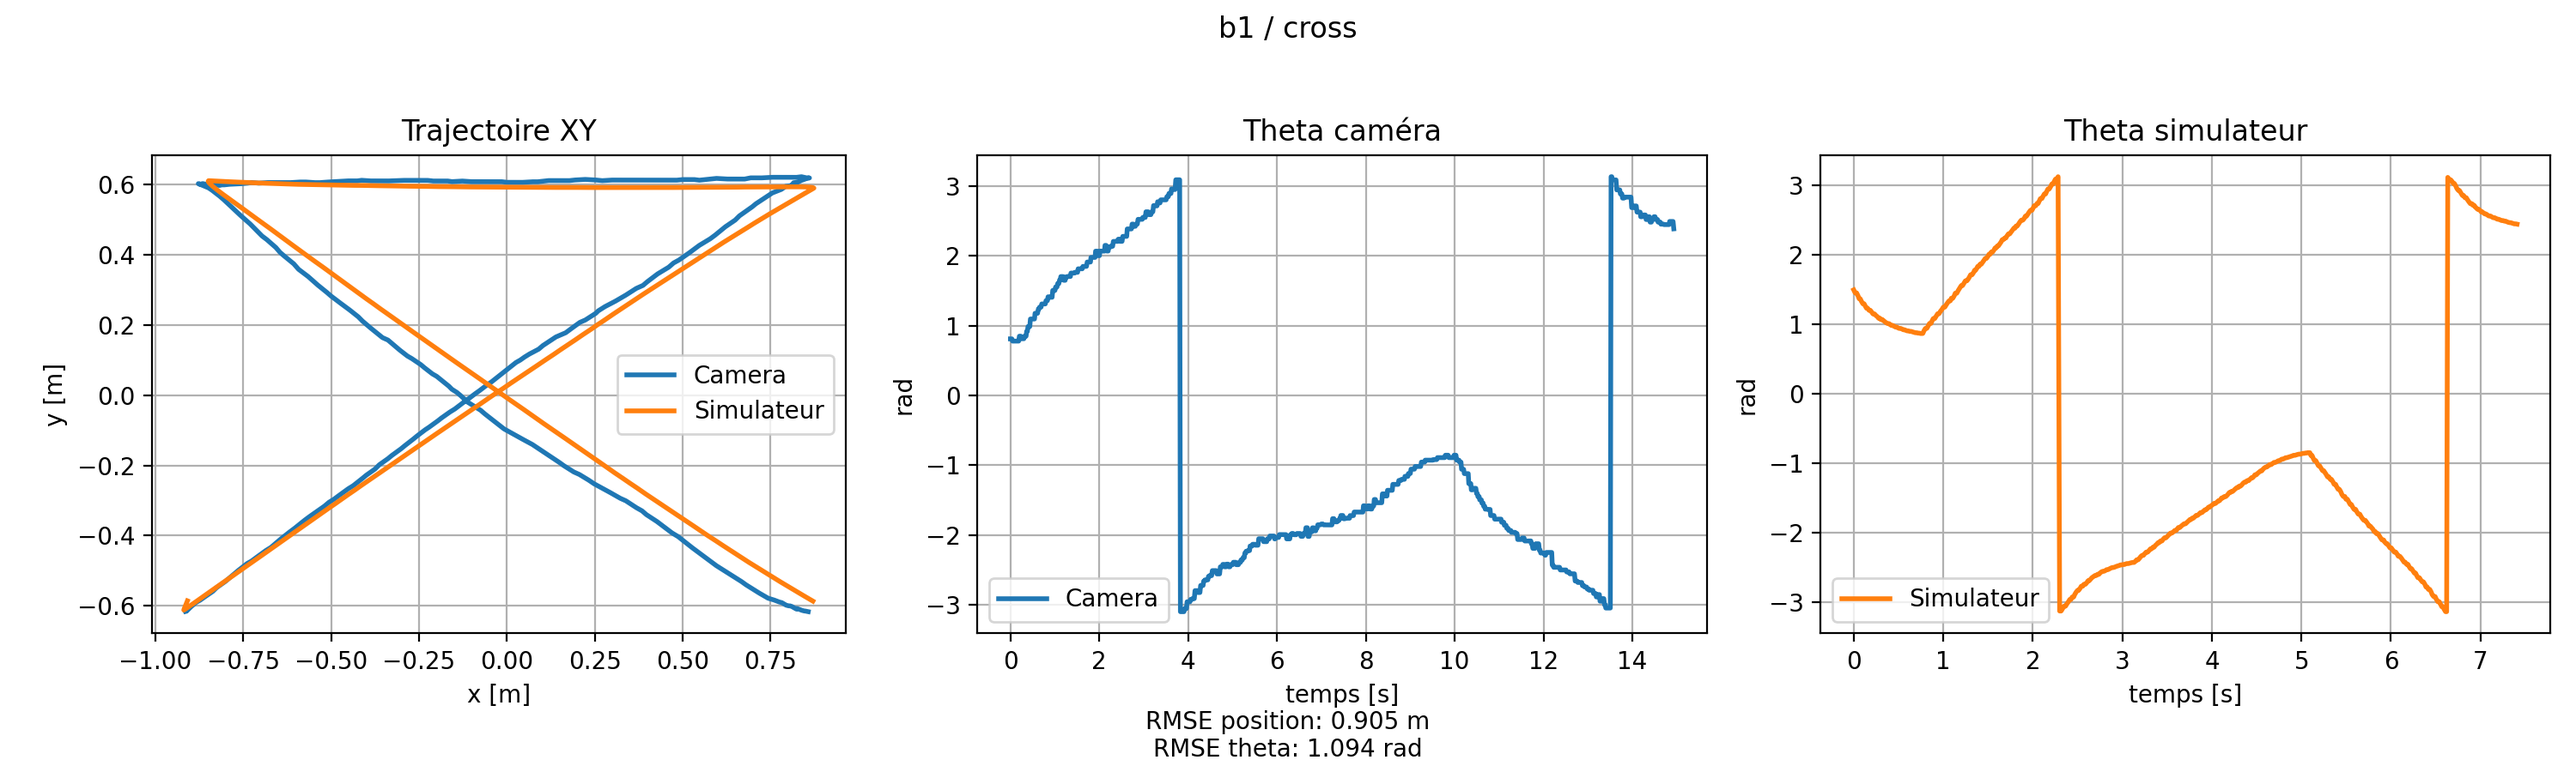
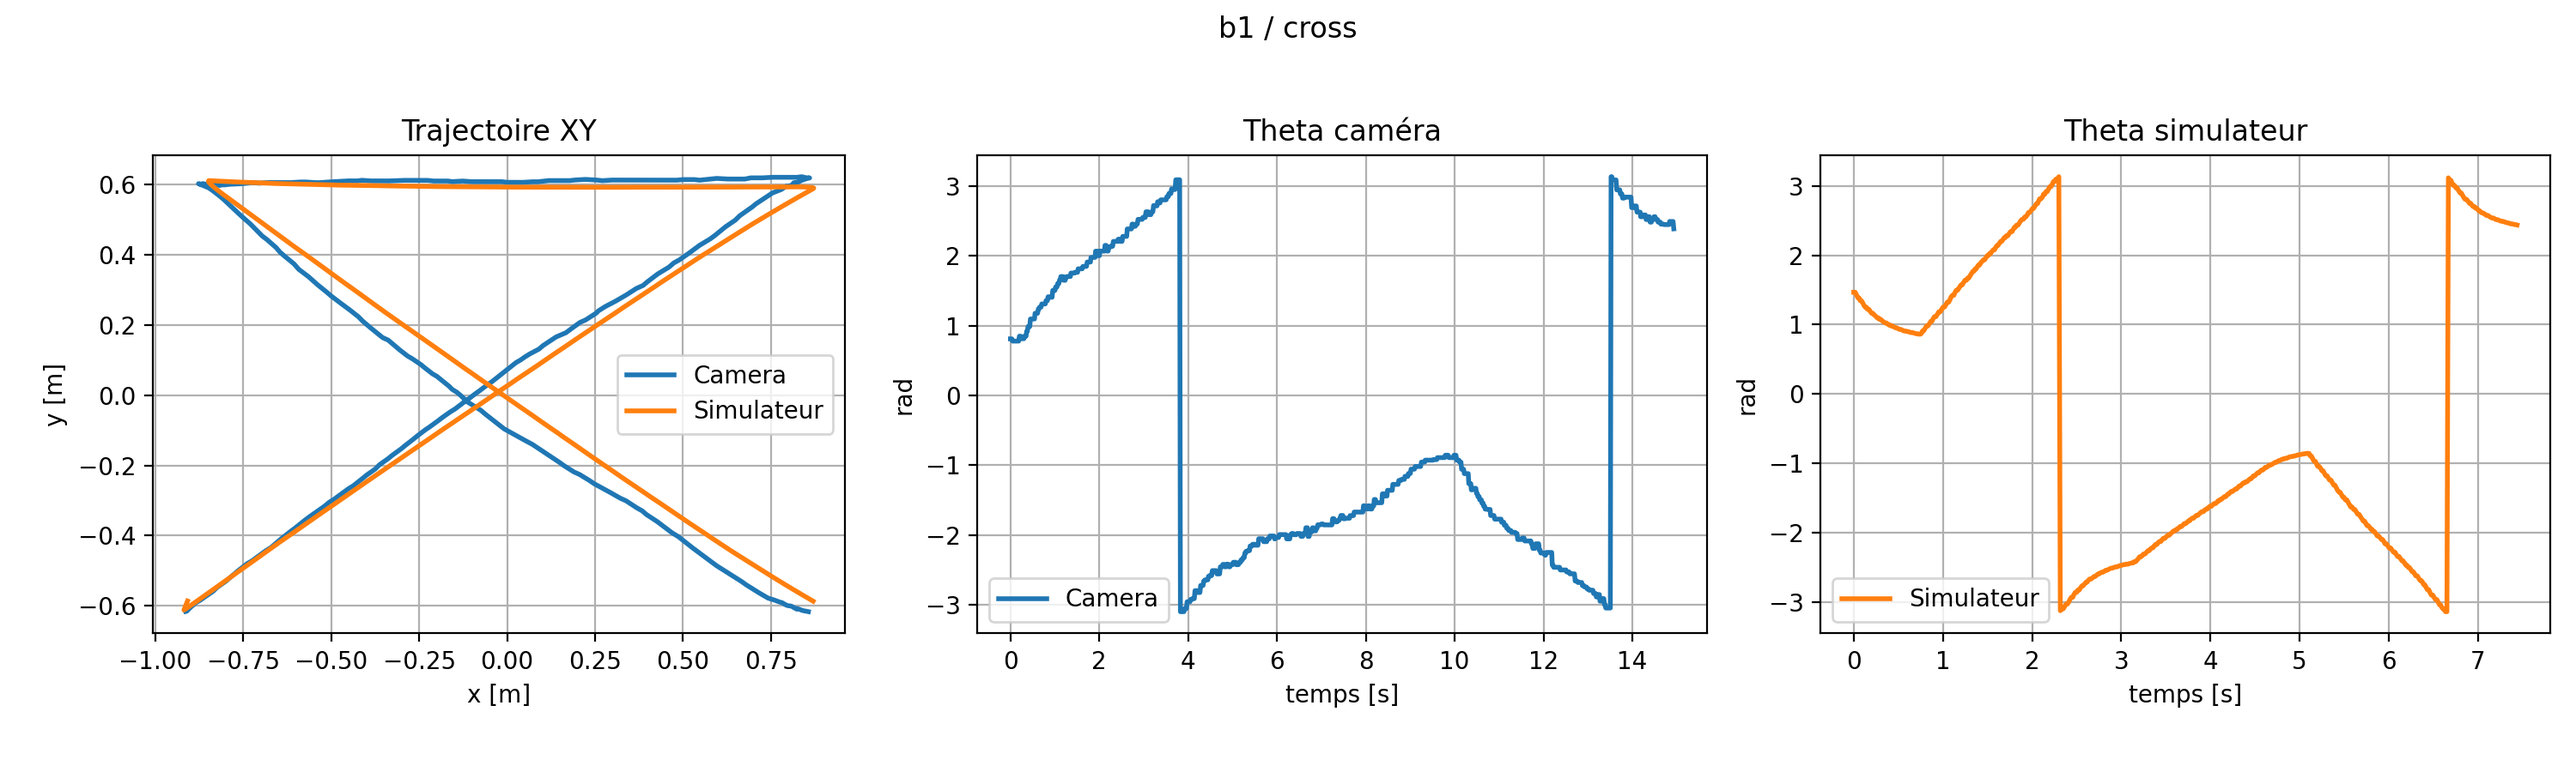
suppr des metriques sur les plot

diff --git a/rsk_neural_simulator/evaluate/evaluate_simulator.py b/rsk_neural_simulator/evaluate/evaluate_simulator.py
@@ -1,10 +1,8 @@
 """Replay un unique scénario RSK sur le simulateur et tracer XY + theta."""
 from __future__ import annotations
 
-import argparse
 import copy
 import json
-import math
 import time
 from dataclasses import dataclass
 from pathlib import Path
@@ -26,6 +24,7 @@ MIN_SLEEP = 1 / 120
 RESULTS_DIR = Path(__file__).resolve().parent / "results"
 DATA_DIR = Path(__file__).resolve().parents[1] / "data"
 DEFAULT_RAW_ROOT = (DATA_DIR / RAW_ROOT).resolve()
+SIM_HOST = "127.0.0.1"
 
 
 def angle_wrap(angle: float) -> float:
@@ -49,12 +48,6 @@ class Pose:
         if any(value is None for value in (x, y, theta)):
             return None
         return cls(float(x), float(y), float(theta))
-
-
-def pose_error(camera: Pose, simulator: Pose) -> Tuple[float, float]:
-    pos_err = math.dist((camera.x, camera.y), (simulator.x, simulator.y))
-    theta_err = abs(angle_wrap(camera.theta - simulator.theta))
-    return pos_err, theta_err
 
 
 def first_valid_pose(samples: Sequence[dict]) -> Optional[Pose]:
@@ -152,31 +145,11 @@ def replay_scenario(
     return records, path_name
 
 
-def compute_rmse(records: Sequence[Tuple[float, Optional[Pose], Optional[Pose]]]) -> Tuple[float, float]:
-    pos_errors: List[float] = []
-    theta_errors: List[float] = []
-    for _, cam_pose, sim_pose in records:
-        if cam_pose and sim_pose:
-            pos_err, theta_err = pose_error(cam_pose, sim_pose)
-            pos_errors.append(pos_err)
-            theta_errors.append(theta_err)
-
-    if not pos_errors:
-        return float("nan"), float("nan")
-
-    def rmse(values: List[float]) -> float:
-        return math.sqrt(sum(v * v for v in values) / len(values))
-
-    return rmse(pos_errors), rmse(theta_errors)
-
-
 def plot_results(
     records: Sequence[Tuple[float, Optional[Pose], Optional[Pose]]],
     robot_key: str,
     path_name: str,
     destination: Path,
-    pos_rmse: float,
-    theta_rmse: float,
 ) -> None:
     destination.parent.mkdir(parents=True, exist_ok=True)
     fig, (ax_xy, ax_theta_cam, ax_theta_sim) = plt.subplots(1, 3, figsize=(15, 4.5))
@@ -213,9 +186,7 @@ def plot_results(
     ax_theta_sim.grid(True)
     ax_theta_sim.legend()
 
-    text = f"RMSE position: {pos_rmse:.3f} m\nRMSE theta: {theta_rmse:.3f} rad"
     fig.suptitle(f"{robot_key} / {path_name}")
-    fig.text(0.5, 0.02, text, ha="center")
     fig.tight_layout(rect=(0, 0.05, 1, 0.95))
     fig.savefig(destination, dpi=200)
     plt.close(fig)
@@ -246,43 +217,23 @@ def run_paths_for_robot(
             continue
 
         records, path_name = replay_scenario(samples, robot_key, scenario_path, client)
-        pos_rmse, theta_rmse = compute_rmse(records)
         destination = output_dir / robot_key / f"{path_name}.png"
-        plot_results(records, robot_key, path_name, destination, pos_rmse, theta_rmse)
+        plot_results(records, robot_key, path_name, destination)
         print(f"[OK] {robot_key}/{path_name} → {destination}")
 
     park_robot(client, robot_key)
     print(f"=== Fin robot {robot_key} ===")
 
 
-def parse_args(argv: Optional[Sequence[str]] = None) -> argparse.Namespace:
-    parser = argparse.ArgumentParser(description=__doc__)
-    parser.add_argument("--host", default="127.0.0.1", help="Adresse IP du simulateur RSK")
-    parser.add_argument(
-        "--output",
-        type=Path,
-        default=RESULTS_DIR,
-        help="Dossier où écrire les plots (par défaut: evaluate/results)",
-    )
-    parser.add_argument(
-        "--raw-root",
-        type=Path,
-        default=DEFAULT_RAW_ROOT,
-        help="Dossier contenant les JSON enregistrés (par défaut: data/raw)",
-    )
-    return parser.parse_args(argv)
-
-
-def main(argv: Optional[Sequence[str]] = None) -> None:
-    args = parse_args(argv)
-    raw_root = args.raw_root.resolve()
+def main() -> None:
+    raw_root = DEFAULT_RAW_ROOT
     if not raw_root.exists():
         raise SystemExit(f"Dossier de données introuvable: {raw_root}")
 
-    output_dir = args.output.resolve()
+    output_dir = RESULTS_DIR
     output_dir.mkdir(parents=True, exist_ok=True)
 
-    with rsk.Client(host=args.host) as client:
+    with rsk.Client(host=SIM_HOST) as client:
         park_all_robots(client)
         for robot_key in ROBOT_MAP:
             run_paths_for_robot(client, robot_key, raw_root, output_dir)

diff --git a/rsk_neural_simulator/evaluate/README.md b/rsk_neural_simulator/evaluate/README.md
@@ -1,200 +1,8 @@
-# Simulator Evaluation Toolkit
+# Evaluate
 
-This package replays the recorded trajectories collected with `data/data_aquire.py`
-against the RSK simulator to quantify how close the physics model matches the
-real-world robots. The workflow is:
+Cette partie du projet vise à mesurer les performances du simulateur RSK et du modèle IA qu viendra le remplacer. 
 
-1. Start the RSK simulator so it streams poses over ZMQ (typically by running the
-   `robot-soccer-kit` project locally).
-2. Run `evaluate_simulator.py` to stream the same velocity orders that were sent
-to the real robots.
-3. Compare the simulator poses with the camera-based ground truth. The script
-   writes JSON comparisons, aggregated metrics, and XY/theta plots for each
-   robot/path pair.
-
-## Quick start
-
-```bash
-cd /Users/cesarlarragueta/Desktop/i3a/projet_RSK/option_robot_rsk
-python -m rsk_neural_simulator.evaluate.evaluate_simulator \
-  --host 127.0.0.1 \
-  --dataset rsk_neural_simulator/data/raw \
-  --output rsk_neural_simulator/evaluate/runs
+- Pour visualiser la différence de trajectoires entre la traj réelle et celle du simulateur (plots dans evaluate/results)
+```bash 
+python -m rsk_neural_simulator.evaluate.evaluate_simulator
 ```
-
-Key options:
-
-- `--host`: IP/hostname of the simulator controller.
-- `--robots g1 g2`: restrict replay to a subset of robots.
-- `--paths circle_in square`: restrict to specific trajectories.
-- `--dt 0.025`: override the original sampling period.
-- `--settle 1.5`: waiting time after teleporting before replaying commands.
-
-Outputs are organised as follows:
-
-```
-runs/
-  g1/
-    circle_in.json          # per-sample camera vs simulator poses
-  plots/
-    g1/circle_in_xy.png     # XY overlay
-    g1/circle_in_theta.png  # theta over time
-  metrics_summary.json      # table of per-path RMSE/MAE values
-```
-
-## Requirements
-
-The script relies on:
-
-- `matplotlib`
-- `numpy`
-- Access to the `rsk` package (already included in `robot-soccer-kit`).
-
-Install extra dependencies with:
-
-```bash
-pip install matplotlib numpy
-```
-
-## Tips
-
-- Keep the simulator running throughout the replay session; the script reuses a
-  single `rsk.Client` for all paths to minimize reconnection overhead.
-- If the simulator drifts too far between paths, restart it or manually
-  re-teleport robots before relaunching the script.
-- You can run the script offline (without a simulator) to inspect saved metrics
-  and plots; however, new comparisons require a reachable simulator endpoint.
-
-## Minimal single-scenario helper
-
-If you only need to replay one JSON log on the simulator and get a quick plot,
-use `replay_single.py` (kept under 300 lines):
-
-```bash
-cd /Users/cesarlarragueta/Desktop/i3a/projet_RSK/option_robot_rsk
-python -m rsk_neural_simulator.evaluate.replay_single \
-  rsk_neural_simulator/data/raw/b1/circle_in.json \
-  --host 127.0.0.1 \
-  --output rsk_neural_simulator/evaluate/results
-```
-
-The script reads the selected log, drives the corresponding robot inside the
-simulator, and saves a single PNG containing the XY trajectory and the theta vs
-time plot, annotated with position/theta RMSE numbers.
-
-Key options:
-
-- `--host`: IP/hostname of the simulator controller.
-- `--robots g1 g2`: restrict replay to a subset of robots.
-- `--paths circle_in square`: restrict to specific trajectories.
-- `--dt 0.025`: override the original sampling period.
-- `--settle 1.5`: waiting time after teleporting before replaying commands.
-
-Outputs are organised as follows:
-
-```
-results/
-  b1_circle_in.png
-```
-
-## Dépendances
-
-- `matplotlib`
-- `rsk` (déjà présent dans `robot-soccer-kit`)
-
-Installez `matplotlib` si besoin :
-
-```bash
-pip install matplotlib
-```
-
-## Conseils
-
-- Laissez le simulateur tourner pendant toute la durée du scénario.
-- Si le simulateur dérive, redémarrez-le ou re-téléportez le robot avant de
-  relancer le script.
-- Les timestamps du JSON sont utilisés pour l’axe temps, mais les ordres sont
-  rejoués à 30 Hz fixes pour refléter l’acquisition d’origine.
-# Simulator Evaluation Toolkit
-
-This package replays the recorded trajectories collected with `data/data_aquire.py`
-against the RSK simulator to quantify how close the physics model matches the
-real-world robots. The workflow is:
-
-1. Start the RSK simulator so it streams poses over ZMQ (typically by running the
-   `robot-soccer-kit` project locally).
-2. Run `evaluate_simulator.py` to stream the same velocity orders that were sent
-to the real robots.
-3. Compare the simulator poses with the camera-based ground truth. The script
-   writes JSON comparisons, aggregated metrics, and XY/theta plots for each
-   robot/path pair.
-
-## Quick start
-
-```bash
-cd /Users/cesarlarragueta/Desktop/i3a/projet_RSK/option_robot_rsk
-python -m rsk_neural_simulator.evaluate.evaluate_simulator \
-  --host 127.0.0.1 \
-  --dataset rsk_neural_simulator/data/raw \
-  --output rsk_neural_simulator/evaluate/runs
-```
-
-### Minimal single-scenario helper
-
-If you only need to replay one JSON log on the simulator and get a quick plot,
-use `replay_single.py` (kept under 300 lines):
-
-```bash
-cd /Users/cesarlarragueta/Desktop/i3a/projet_RSK/option_robot_rsk
-python -m rsk_neural_simulator.evaluate.replay_single \
-  rsk_neural_simulator/data/raw/b1/circle_in.json \
-  --host 127.0.0.1 \
-  --output rsk_neural_simulator/evaluate/results
-```
-
-The script reads the selected log, drives the corresponding robot inside the
-simulator, and saves a single PNG containing the XY trajectory and the theta vs
-time plot, annotated with position/theta RMSE numbers.
-
-Key options:
-
-- `--host`: IP/hostname of the simulator controller.
-- `--robots g1 g2`: restrict replay to a subset of robots.
-- `--paths circle_in square`: restrict to specific trajectories.
-- `--dt 0.025`: override the original sampling period.
-- `--settle 1.5`: waiting time after teleporting before replaying commands.
-
-Outputs are organised as follows:
-
-```
-runs/
-  g1/
-    circle_in.json          # per-sample camera vs simulator poses
-  plots/
-    g1/circle_in_xy.png     # XY overlay
-    g1/circle_in_theta.png  # theta over time
-  metrics_summary.json      # table of per-path RMSE/MAE values
-```
-
-## Requirements
-
-The script relies on:
-
-- `matplotlib`
-- `numpy`
-- Access to the `rsk` package (already included in `robot-soccer-kit`).
-
-Install extra dependencies with:
-
-```bash
-pip install matplotlib numpy
-```
-
-## Tips
-
-- Keep the simulator running throughout the replay session; the script reuses a
-  single `rsk.Client` for all paths to minimize reconnection overhead.
-- If the simulator drifts too far between paths, restart it or manually
-  re-teleport robots before relaunching the script.
-- You can run the script offline (without a simulator) to inspect saved metrics
-  and plots; however, new comparisons require a reachable simulator endpoint.

diff --git a/rsk_neural_simulator/data/README.md b/rsk_neural_simulator/data/README.md
@@ -1,0 +1,18 @@
+# DATA
+
+Cette partie du projet vise à 
+
+- acquérir des données variées sur les robots du rsk 
+```bash 
+python -m rsk_neural_simulator.data.data_aquire
+```
+
+- les visualiser (plots dans data/plots)
+```bash 
+python -m rsk_neural_simulator.data.plot_traj
+```
+
+- les traiter, nettoyer, et préparer au MLP
+```bash 
+python -m rsk_neural_simulator.data.preparation_datas
+```
